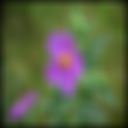
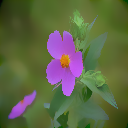
Image uploads

diff --git a/assignment-3-segmentation/2/code/myMainScript.py b/assignment-3-segmentation/2/code/myMainScript.py
@@ -6,4 +6,4 @@ iterations = [30,40,40]
 from myMeanShift import meanShift
 
 for i in range(len(filenames)):
-    meanShift(foldername+filenames[i],intensity_sigma=3.0,num_iter=iterations[i])
+    meanShift(foldername+filenames[i],intensity_sigma=0.1,num_iter=iterations[i])
